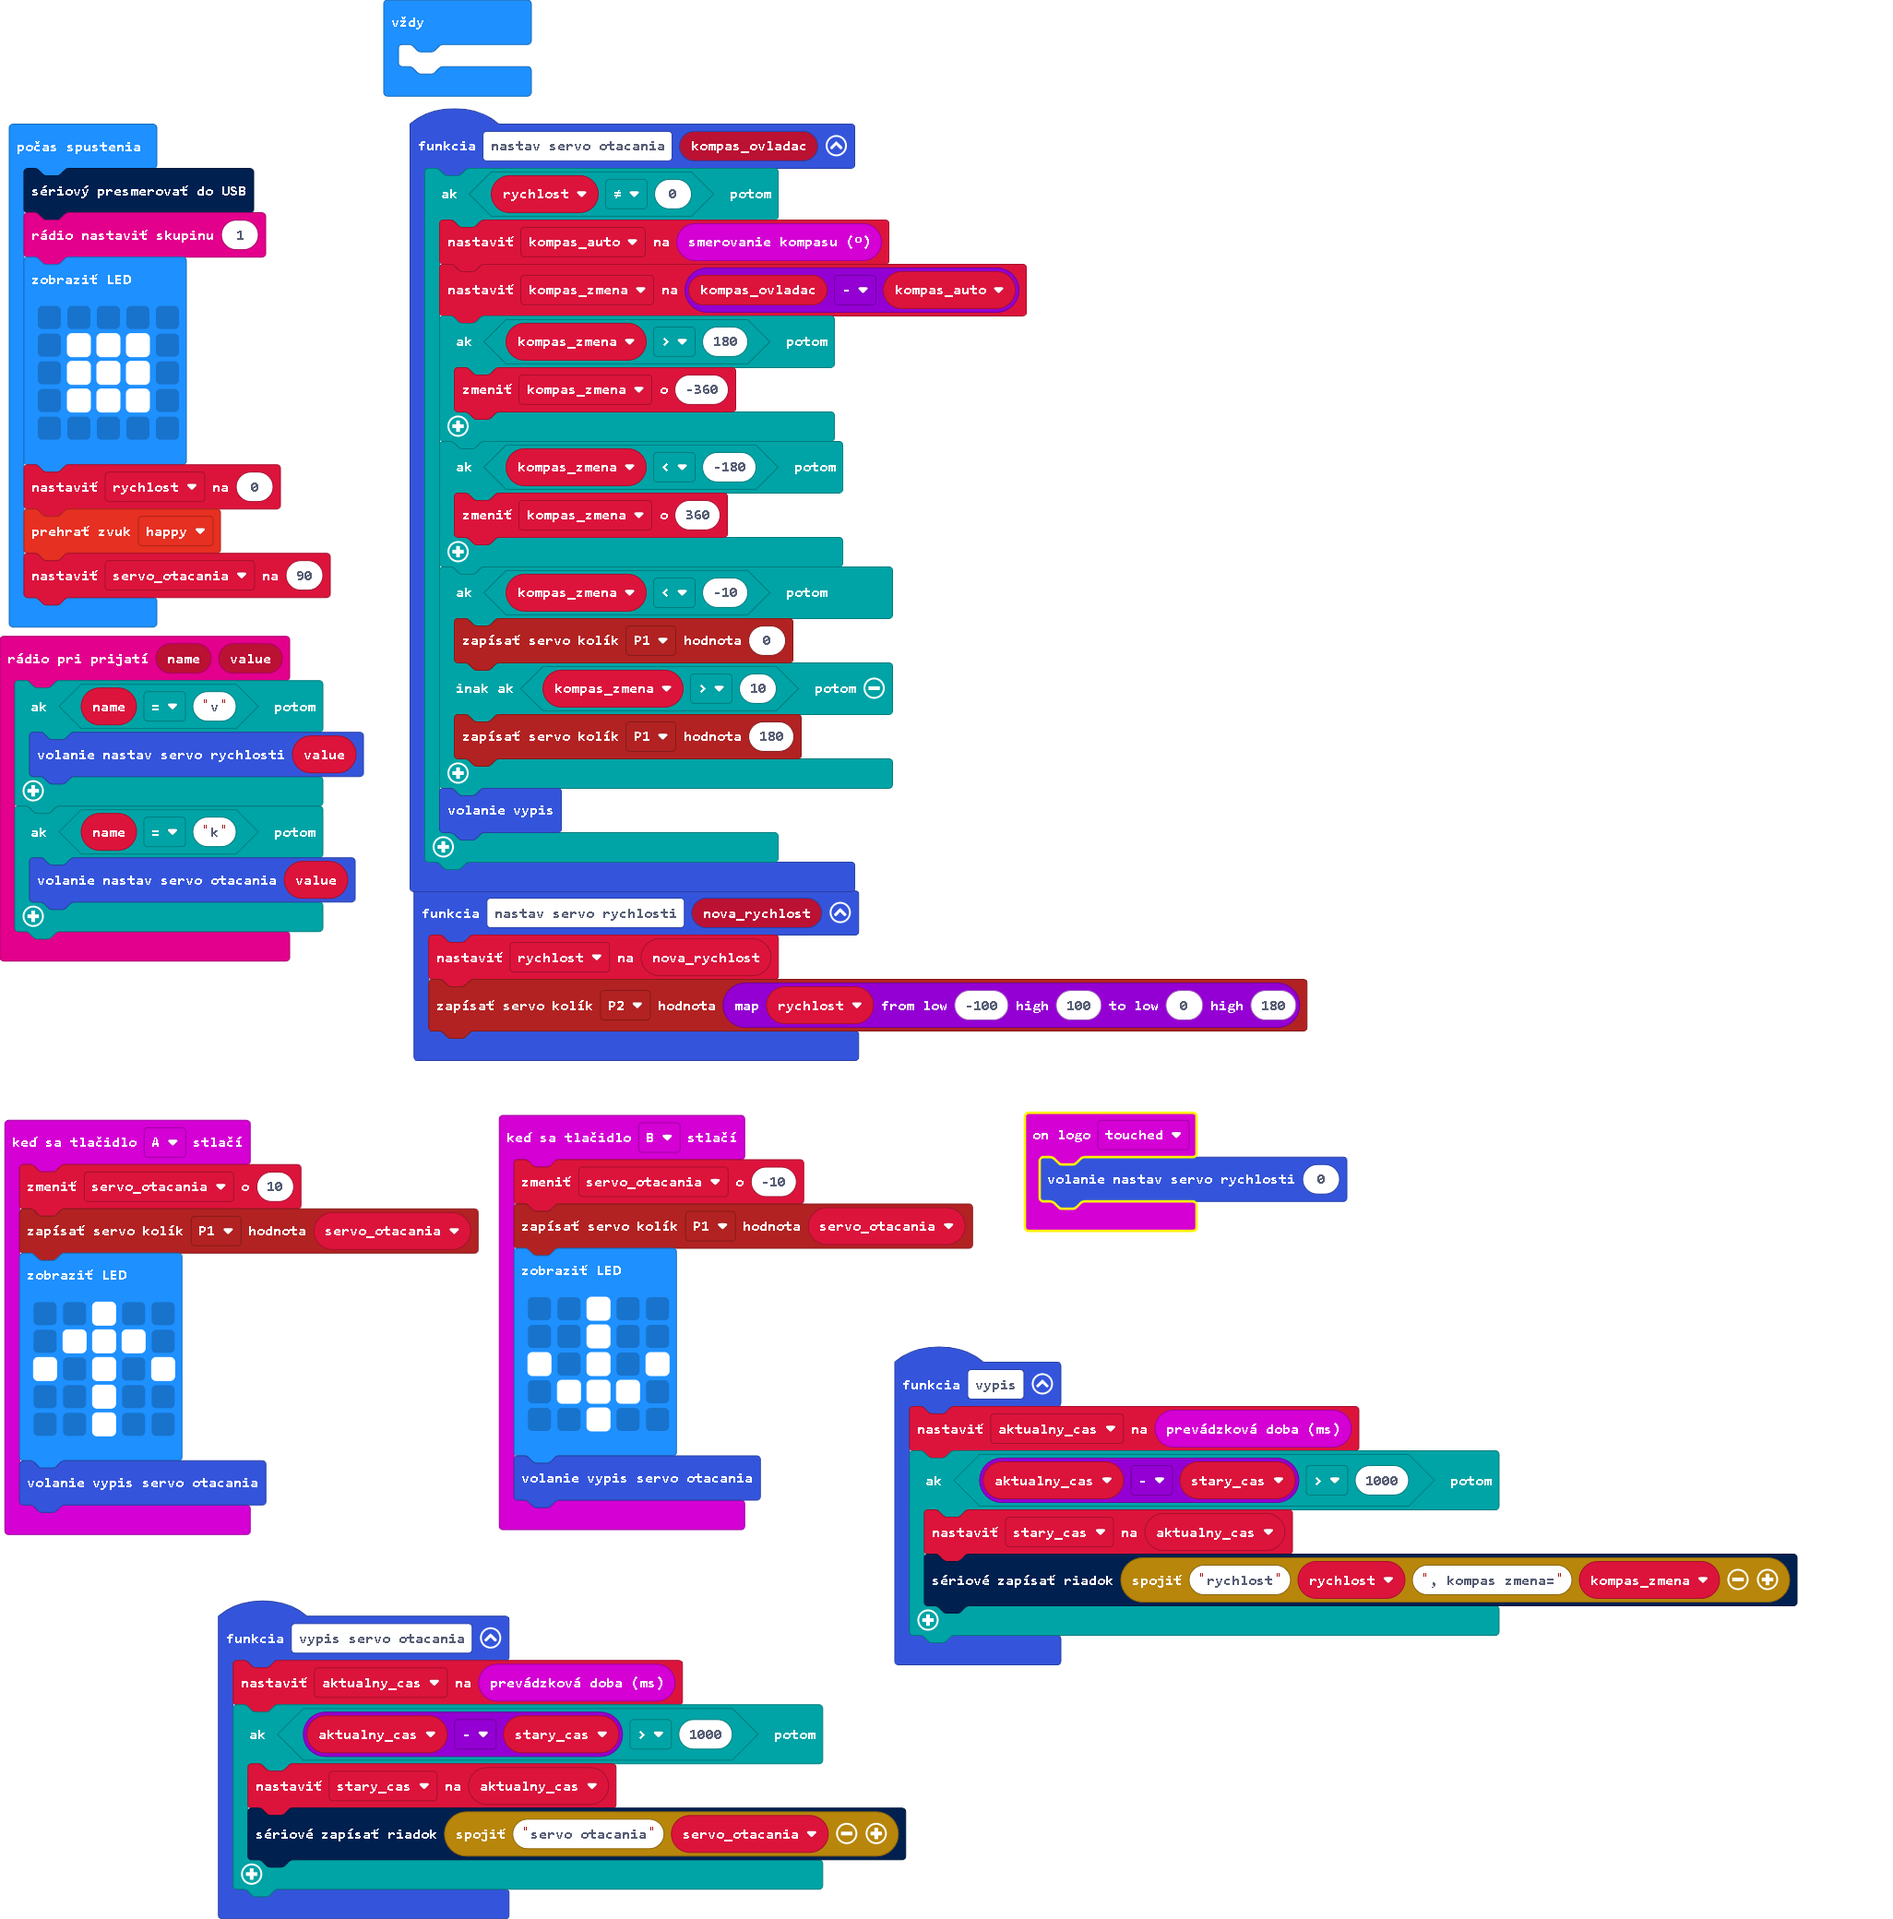
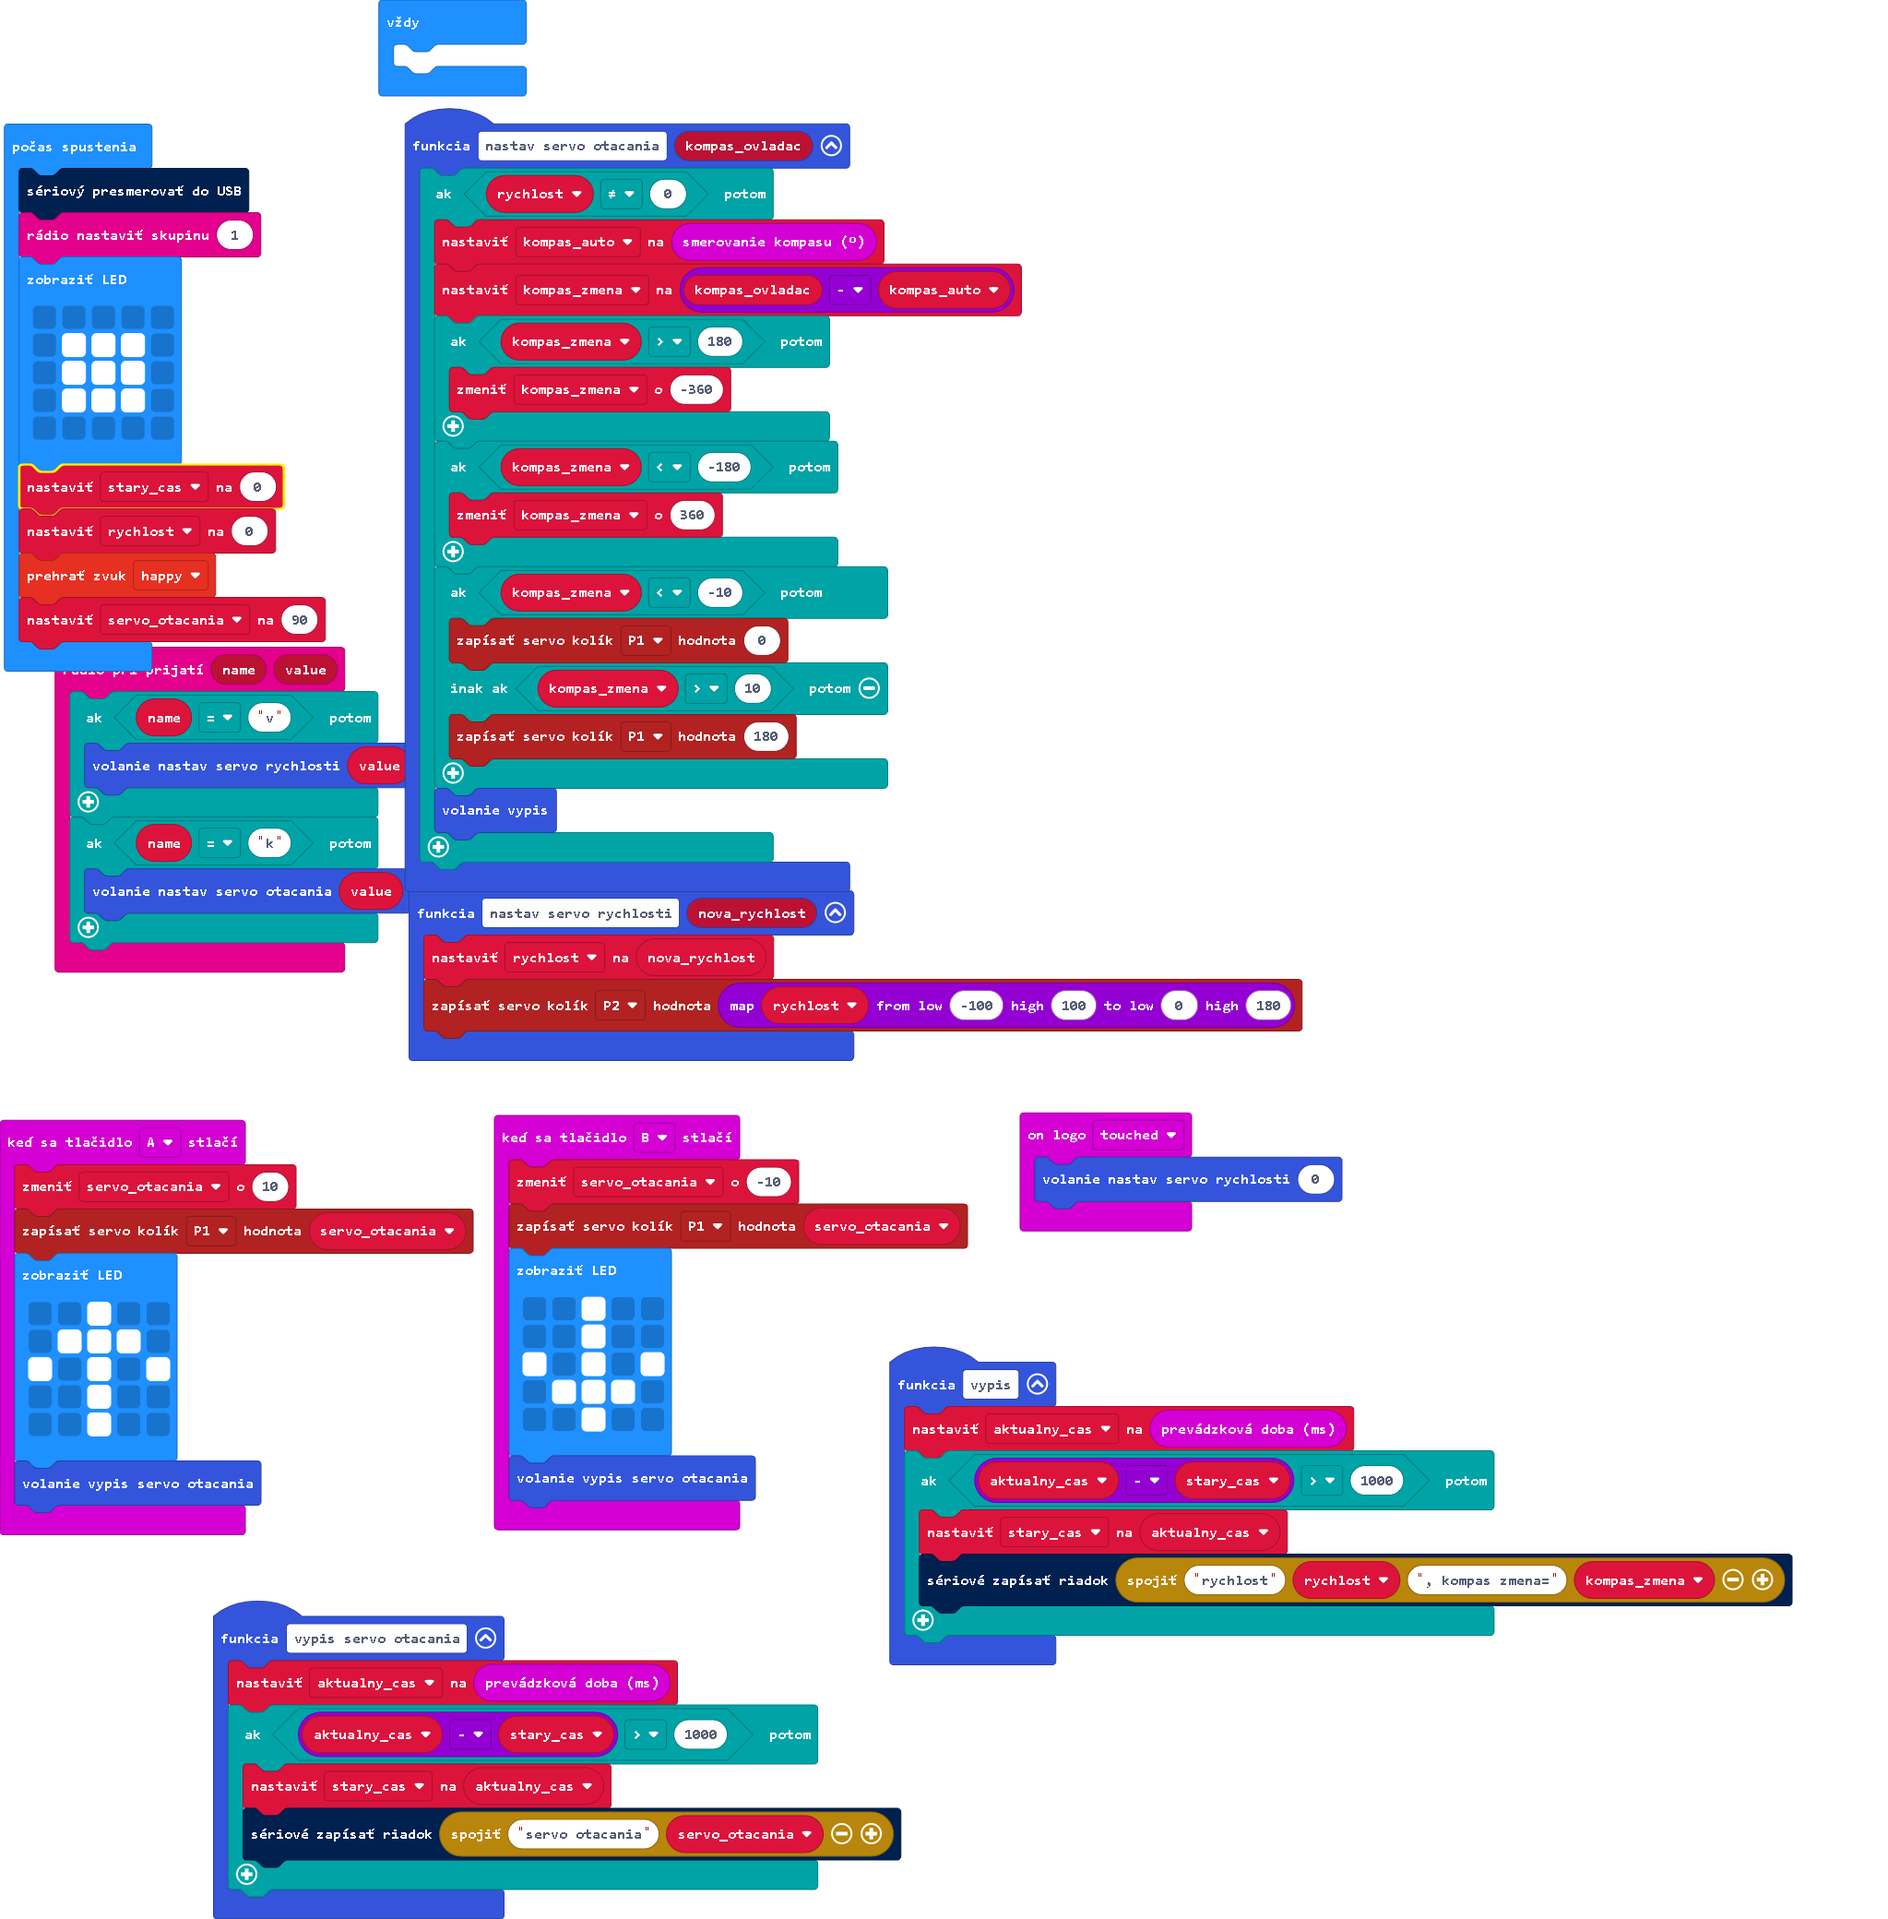
Aktualizovať main.blocks, main.ts

diff --git a/main.ts b/main.ts
@@ -71,10 +71,10 @@ function nastav_servo_otacania (kompas_ovladac: number) {
 }
 let kompas_auto = 0
 let kompas_zmena = 0
-let stary_cas = 0
 let aktualny_cas = 0
 let servo_otacania = 0
 let rychlost = 0
+let stary_cas = 0
 serial.redirectToUSB()
 radio.setGroup(1)
 basic.showLeds(`
@@ -84,6 +84,7 @@ basic.showLeds(`
     . # # # .
     . . . . .
     `)
+stary_cas = 0
 rychlost = 0
 soundExpression.happy.play()
 servo_otacania = 90
